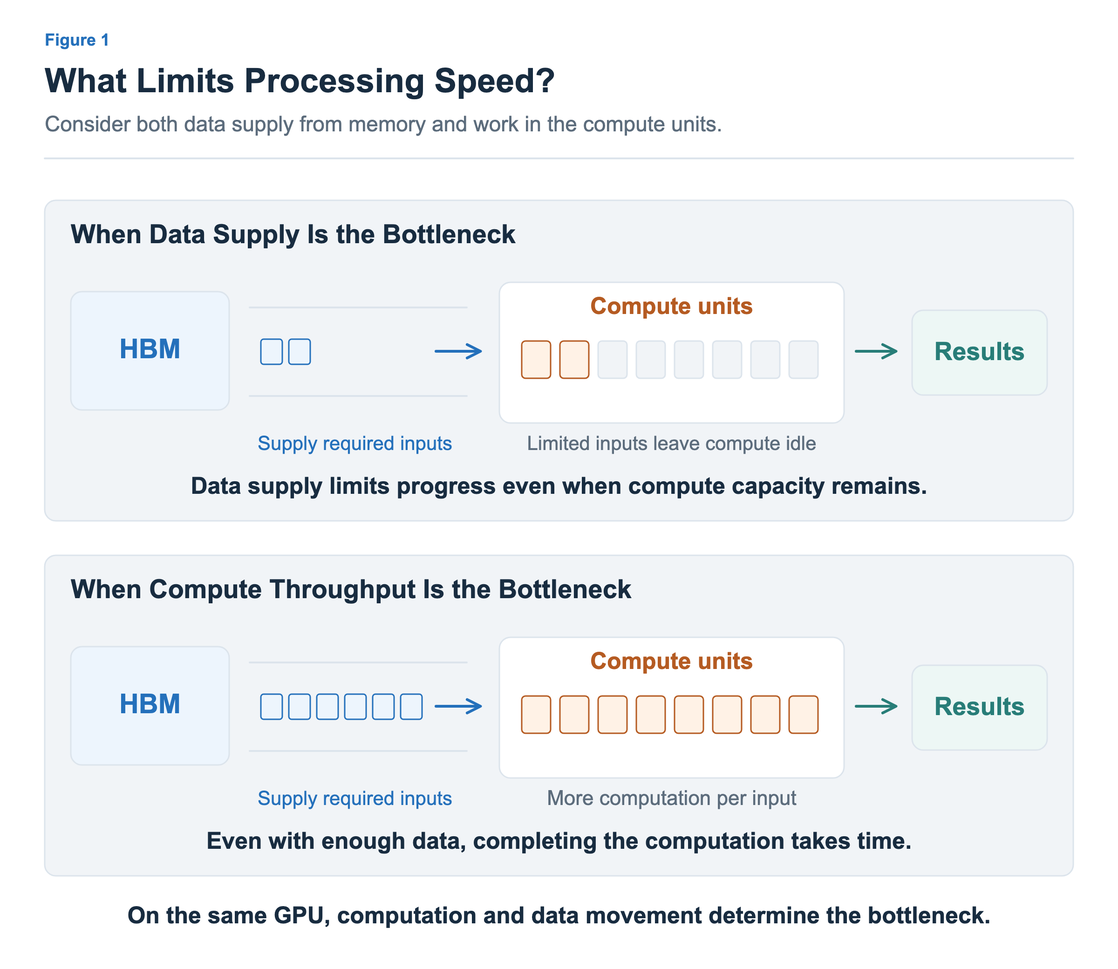
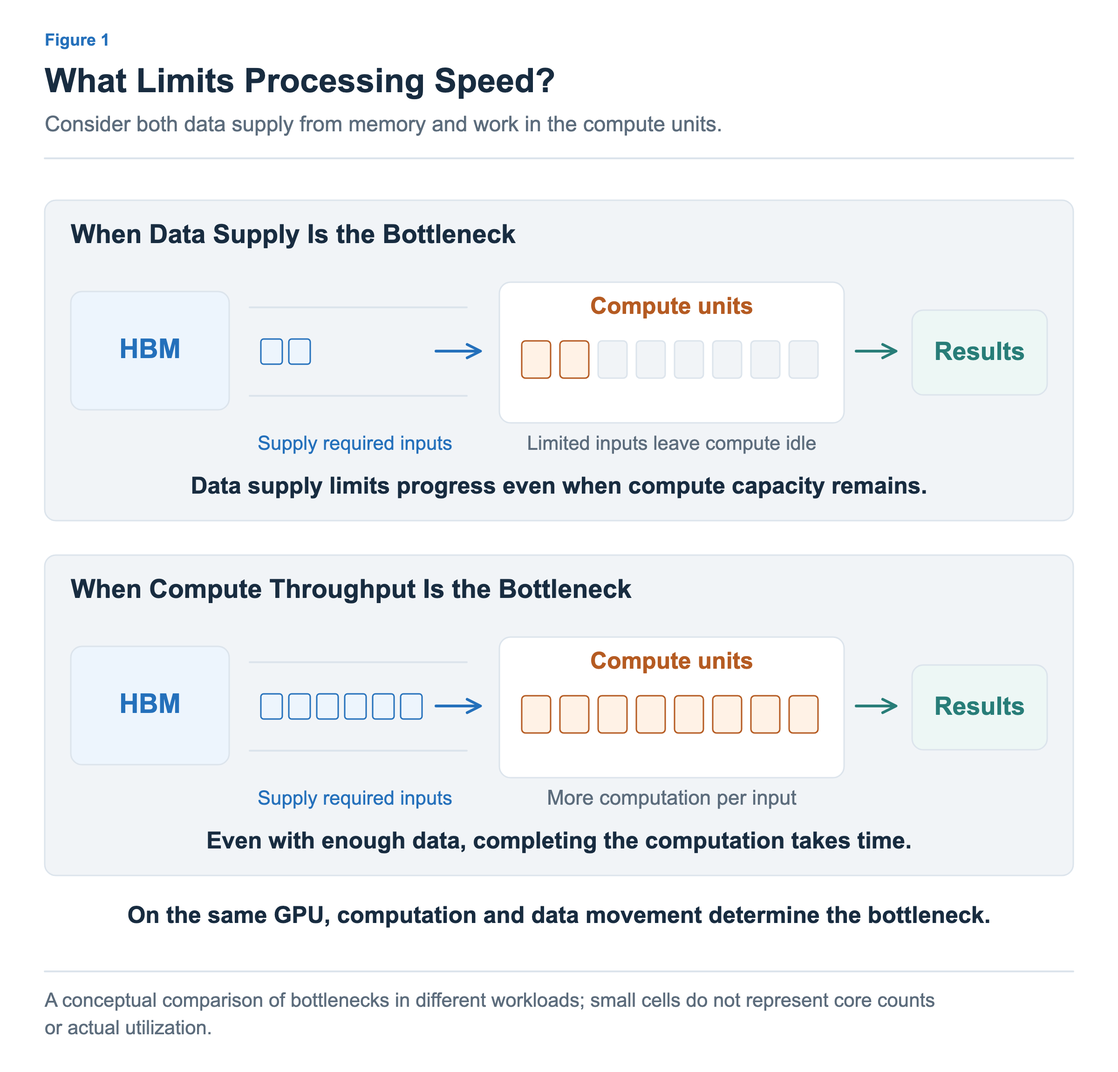
Port gpu-arithmetic-intensity-and-fusion figures to the shared visualization module
Figures are regenerated from src/data/figures/gpu-arithmetic-intensity-and-fusion with the standard frame
and in-image captions. Figures had no captions; new ko/en captions are drafted from the figures' own notes and the article text (please review).

diff --git a/src/data/figures/gpu-arithmetic-intensity-and-fusion/03-reduce-and-overlap.ts b/src/data/figures/gpu-arithmetic-intensity-and-fusion/03-reduce-and-overlap.ts
@@ -1,0 +1,67 @@
+import {C,Panel,markerUrl,type FigureSpec,type Locale} from '@llm-systems/viz';
+// Ported from the published SVG with its original geometry; replace parts with shared primitives when editing.
+export default {
+  articleId:"gpu-arithmetic-intensity-and-fusion",figureId:"03-reduce-and-overlap",number:"03-reduce-and-overlap",
+  layout:'wide',screens:['desktop'],
+  eyebrow:["그림 3","Figure 3"],
+  title:["이동을 줄이거나, 대기 중에 다른 계산을 합니다","Move Less Data or Compute While Waiting"],
+  subtitle:["데이터 이동량을 줄이는 것과 데이터 대기를 가리는 것은 다른 방법입니다.","Reducing data movement and hiding data waits are different approaches."],
+  alt:["세 경우 모두 같은 A와 B 계산을 완료한다. B는 A의 새 입력과 독립적이며 입력이 이미 준비되어 있다고 가정한다. 기준은 A입력 준비4칸 뒤 A계산2칸과 B계산2칸이다. 이동 감소는 재사용이나 중간값 이동 생략으로 A입력 준비를2칸으로 줄이고 계산은 유지한다. 동시 진행은 A입력 준비4칸 동안 B계산2칸을 먼저 진행한 뒤 A입력이 준비되면 A계산을 한다. 계산 A는 자기 입력 준비가 끝난 뒤에만 시작한다. 시간선은 상대적인 실행 순서 설명이며 실제 속도 향상 측정이 아니다. 이전 워프 스케줄링 편과 연결되는 개념도이며 구체적인 비동기 복사 API를 뜻하지 않는다.","All three cases complete the same computations A and B. B is independent of the new inputs for A and already has its inputs. The baseline prepares inputs for A for four slots, then computes A for two and B for two. Reducing movement through reuse or omitting intermediate transfers shortens preparation to two slots with unchanged computation. Concurrent progress computes B for two slots during the four-slot preparation for A, then computes A after its inputs are ready. A always starts after its own inputs are ready. The timelines illustrate relative execution order, not measured speedups. They connect to the preceding warp-scheduling article and do not specify an asynchronous-copy API."],
+  caption:["시간선은 상대적인 실행 순서이며, 실제 속도 향상을 측정한 결과가 아닙니다.","Timelines show relative execution order, not measured speedups."],
+  sources:[],
+  panels(locale:Locale){
+    const p=new Panel(locale,null,984,1104,[48,206]);
+    p.el('text',{x:48,y:218,fill:C.ink,"font-size":25,"font-weight":600,"text-anchor":"start"},["A의 입력을 준비하는 동안 실행할 수 있는 독립적인 계산 B가 있습니다.","Independent computation B can run while the inputs for A are being prepared."]);
+    p.el("rect",{x:48,y:250,width:1104,height:234,rx:12,fill:C.grayFill,stroke:C.line,"stroke-width":1.5});
+    p.el('text',{x:75,y:292,fill:C.ink,"font-size":26,"font-weight":700,"text-anchor":"start"},["기준 · 입력을 기다린 뒤 계산","Baseline · Wait for Inputs, Then Compute"]);
+    p.el('text',{x:75,y:352,fill:C.blue,"font-size":(locale==='ko'?22:21),"font-weight":600,"text-anchor":"start"},["A의 입력 준비","Prepare A’s inputs"]);
+    p.el('text',{x:75,y:414,fill:C.orange,"font-size":22,"font-weight":600,"text-anchor":"start"},["연산 장치","Compute units"]);
+    p.el("rect",{x:276,y:315,width:376,height:48,rx:12,fill:C.blueFill,stroke:C.line,"stroke-width":1.5});
+    p.el('text',{x:464,y:347,fill:C.blue,"font-size":23,"font-weight":600,"text-anchor":"middle"},["데이터 이동","Data movement"]);
+    p.el("rect",{x:276,y:380,width:376,height:48,rx:12,fill:C.paper,stroke:C.line,"stroke-width":1.5});
+    p.el('text',{x:464,y:412,fill:C.muted,"font-size":22,"font-weight":600,"text-anchor":"middle"},["대기","Waiting"]);
+    p.el("rect",{x:652,y:380,width:188,height:48,rx:12,fill:C.orangeFill,stroke:C.line,"stroke-width":1.5});
+    p.el('text',{x:746,y:412,fill:C.orange,"font-size":23,"font-weight":600,"text-anchor":"middle"},["A 계산","Compute A"]);
+    p.el("rect",{x:840,y:380,width:188,height:48,rx:12,fill:C.tealFill,stroke:C.line,"stroke-width":1.5});
+    p.el('text',{x:934,y:412,fill:C.teal,"font-size":23,"font-weight":600,"text-anchor":"middle"},["B 계산","Compute B"]);
+    p.el("path",{d:"M652,365 L652,375",fill:"none",stroke:C.blue,"stroke-width":2,"marker-end":markerUrl(C.blue)});
+    p.el("path",{d:"M1028,311 V437",fill:"none",stroke:C.muted,"stroke-width":2,"stroke-dasharray":"7 7"});
+    p.el('text',{x:1028,y:468,fill:C.muted,"font-size":21,"font-weight":600,"text-anchor":"middle"},["전체 완료","All work done"]);
+    p.el("rect",{x:48,y:510,width:1104,height:234,rx:12,fill:C.grayFill,stroke:C.line,"stroke-width":1.5});
+    p.el('text',{x:75,y:552,fill:C.ink,"font-size":26,"font-weight":700,"text-anchor":"start"},["이동 감소 · 필요한 데이터 이동 자체를 줄임","Less Movement · Reduce the Required Data Transfers"]);
+    p.el('text',{x:75,y:612,fill:C.blue,"font-size":(locale==='ko'?22:21),"font-weight":600,"text-anchor":"start"},["A의 입력 준비","Prepare A’s inputs"]);
+    p.el('text',{x:75,y:674,fill:C.orange,"font-size":22,"font-weight":600,"text-anchor":"start"},["연산 장치","Compute units"]);
+    p.el("rect",{x:276,y:575,width:188,height:48,rx:12,fill:C.blueFill,stroke:C.line,"stroke-width":1.5});
+    p.el('text',{x:370,y:607,fill:C.blue,"font-size":23,"font-weight":600,"text-anchor":"middle"},["데이터 이동","Data movement"]);
+    p.el("rect",{x:276,y:640,width:188,height:48,rx:12,fill:C.paper,stroke:C.line,"stroke-width":1.5});
+    p.el('text',{x:370,y:672,fill:C.muted,"font-size":22,"font-weight":600,"text-anchor":"middle"},["대기","Waiting"]);
+    p.el("rect",{x:464,y:640,width:188,height:48,rx:12,fill:C.orangeFill,stroke:C.line,"stroke-width":1.5});
+    p.el('text',{x:558,y:672,fill:C.orange,"font-size":23,"font-weight":600,"text-anchor":"middle"},["A 계산","Compute A"]);
+    p.el("rect",{x:652,y:640,width:188,height:48,rx:12,fill:C.tealFill,stroke:C.line,"stroke-width":1.5});
+    p.el('text',{x:746,y:672,fill:C.teal,"font-size":23,"font-weight":600,"text-anchor":"middle"},["B 계산","Compute B"]);
+    p.el("path",{d:"M464,625 L464,635",fill:"none",stroke:C.blue,"stroke-width":2,"marker-end":markerUrl(C.blue)});
+    p.el("path",{d:"M840,571 V697",fill:"none",stroke:C.muted,"stroke-width":2,"stroke-dasharray":"7 7"});
+    p.el('text',{x:840,y:728,fill:C.muted,"font-size":21,"font-weight":600,"text-anchor":"middle"},["전체 완료","All work done"]);
+    p.el("rect",{x:48,y:770,width:1104,height:234,rx:12,fill:C.grayFill,stroke:C.line,"stroke-width":1.5});
+    p.el('text',{x:75,y:812,fill:C.ink,"font-size":(locale==='ko'?26:25),"font-weight":700,"text-anchor":"start"},["동시 진행 · 데이터 이동 중 독립적인 계산을 진행","Concurrent Progress · Compute Independently During Data Movement"]);
+    p.el('text',{x:75,y:872,fill:C.blue,"font-size":(locale==='ko'?22:21),"font-weight":600,"text-anchor":"start"},["A의 입력 준비","Prepare A’s inputs"]);
+    p.el('text',{x:75,y:934,fill:C.orange,"font-size":22,"font-weight":600,"text-anchor":"start"},["연산 장치","Compute units"]);
+    p.el("rect",{x:276,y:835,width:376,height:48,rx:12,fill:C.blueFill,stroke:C.line,"stroke-width":1.5});
+    p.el('text',{x:464,y:867,fill:C.blue,"font-size":23,"font-weight":600,"text-anchor":"middle"},["데이터 이동","Data movement"]);
+    p.el("rect",{x:464,y:900,width:188,height:48,rx:12,fill:C.paper,stroke:C.line,"stroke-width":1.5});
+    p.el('text',{x:558,y:932,fill:C.muted,"font-size":22,"font-weight":600,"text-anchor":"middle"},["대기","Waiting"]);
+    p.el("rect",{x:276,y:900,width:188,height:48,rx:12,fill:C.tealFill,stroke:C.line,"stroke-width":1.5});
+    p.el('text',{x:370,y:932,fill:C.teal,"font-size":23,"font-weight":600,"text-anchor":"middle"},["B 계산","Compute B"]);
+    p.el("rect",{x:652,y:900,width:188,height:48,rx:12,fill:C.orangeFill,stroke:C.line,"stroke-width":1.5});
+    p.el('text',{x:746,y:932,fill:C.orange,"font-size":23,"font-weight":600,"text-anchor":"middle"},["A 계산","Compute A"]);
+    p.el("path",{d:"M652,885 L652,895",fill:"none",stroke:C.blue,"stroke-width":2,"marker-end":markerUrl(C.blue)});
+    p.el("path",{d:"M840,831 V957",fill:"none",stroke:C.muted,"stroke-width":2,"stroke-dasharray":"7 7"});
+    p.el('text',{x:840,y:988,fill:C.muted,"font-size":21,"font-weight":600,"text-anchor":"middle"},["전체 완료","All work done"]);
+    p.el('text',{x:1030,y:872,fill:C.blue,"font-size":21,"font-weight":400,"text-anchor":"middle"},["이동 시간은 동일","Same transfer time"]);
+    p.el("path",{d:"M278,1050 L1100,1050",fill:"none",stroke:C.muted,"stroke-width":2,"marker-end":markerUrl(C.muted)});
+    p.el('text',{x:1110,y:1083,fill:C.muted,"font-size":21,"font-weight":400,"text-anchor":"end"},["시간","Time"]);
+    p.el('text',{x:600,y:1130,fill:C.ink,"font-size":26,"font-weight":700,"text-anchor":"middle"},["세 경우 모두 A와 B의 계산량은 같습니다.","All three cases perform the same computation for A and B."]);
+    p.el('text',{x:600,y:1174,fill:C.muted,"font-size":24,"font-weight":400,"text-anchor":"middle"},["옮길 데이터를 줄이거나, 데이터가 준비되는 동안 다른 계산을 진행합니다.","Move less data, or do other computation while the data is being prepared."]);
+    return [p];
+  },
+} satisfies FigureSpec;

diff --git a/src/data/figures/gpu-arithmetic-intensity-and-fusion/02-arithmetic-intensity-roofline.ts b/src/data/figures/gpu-arithmetic-intensity-and-fusion/02-arithmetic-intensity-roofline.ts
@@ -1,0 +1,67 @@
+import {C,Panel,markerUrl,type FigureSpec,type Locale} from '@llm-systems/viz';
+// Ported from the published SVG with its original geometry; replace parts with shared primitives when editing.
+export default {
+  articleId:"gpu-arithmetic-intensity-and-fusion",figureId:"02-arithmetic-intensity-roofline",number:"02-arithmetic-intensity-roofline",
+  layout:'wide',screens:['desktop'],
+  eyebrow:["그림 2","Figure 2"],
+  title:["산술 강도는 메모리와 연산의 한계를 연결합니다","Arithmetic Intensity Connects Memory and Compute Limits"],
+  subtitle:["HBM과 주고받는 데이터에 비해 얼마나 많은 계산을 수행하는지 봅니다.","Compare the amount of computation with the data read from and written to HBM."],
+  alt:["왼쪽의 계산 A는 HBM 읽기와 쓰기 총64byte에128FLOP, 산술 강도2이고 B는64byte에512FLOP, 산술 강도8이다. 오른쪽은 설명용 대역폭8GB/s, 계산 상한32GFLOPS의 선형 축 Roofline이다. 산술 강도4에서 두 상한이 만난다. A에서 처리량 상한16GFLOPS, B에서32GFLOPS다. 회색 점은 상한 아래에 있을 수 있는 실제 성능의 개념적 위치이며 실측 결과가 아니다. 수치는 특정 GPU 사양이 아니며 같은 연산 경로와 자료형을 가정한 단순 모델이다.","On the left, computation A performs 128 FLOP for 64 total HBM bytes read and written, giving intensity 2; B performs 512 FLOP for 64 bytes, giving intensity 8. The right uses linear axes with illustrative bandwidth 8 GB/s and compute ceiling 32 GFLOPS. The ceilings meet at intensity 4 FLOP/byte. A has ceiling 16 GFLOPS and B has ceiling 32 GFLOPS. The gray point illustrates a possible performance position below the ceiling and is not a measurement. These are not specifications for a particular GPU; the model assumes the same compute path and data type."],
+  caption:["수치는 특정 GPU 사양이 아닌 설명용 값입니다. 회색 점은 실측 결과가 아닙니다.","Values are illustrative, not a specific GPU’s specifications. Gray dots are not measurements."],
+  sources:[],
+  panels(locale:Locale){
+    const p=new Panel(locale,null,720,1104,[48,206]);
+    p.el("rect",{x:48,y:213,width:420,height:565,rx:12,fill:C.grayFill,stroke:C.line,"stroke-width":1.5});
+    p.el('text',{x:74,y:255,fill:C.ink,"font-size":(locale==='ko'?27:24),"font-weight":700,"text-anchor":"start"},["1. 이동량 대비 계산량","1. Computation per Byte Moved"]);
+    p.el("rect",{x:72,y:284,width:372,height:183,rx:12,fill:C.paper,stroke:C.blue,"stroke-width":1.5});
+    p.el('text',{x:94,y:322,fill:C.blue,"font-size":25,"font-weight":700,"text-anchor":"start"},["계산 A","Computation A"]);
+    p.el('text',{x:94,y:366,fill:C.ink,"font-size":(locale==='ko'?24:23),"font-weight":400,"text-anchor":"start"},["HBM 이동 64 byte","64 bytes moved to/from HBM"]);
+    p.el('text',{x:94,y:403,fill:C.ink,"font-size":(locale==='ko'?24:21),"font-weight":400,"text-anchor":"start"},["필요한 계산 128 FLOP","128 FLOP of required computation"]);
+    p.el('text',{x:94,y:442,fill:C.blue,"font-size":25,"font-weight":700,"text-anchor":"start"},"128 ÷ 64 = 2 FLOP/byte");
+    p.el("rect",{x:72,y:493,width:372,height:183,rx:12,fill:C.paper,stroke:C.orange,"stroke-width":1.5});
+    p.el('text',{x:94,y:531,fill:C.orange,"font-size":25,"font-weight":700,"text-anchor":"start"},["계산 B","Computation B"]);
+    p.el('text',{x:94,y:575,fill:C.ink,"font-size":(locale==='ko'?24:23),"font-weight":400,"text-anchor":"start"},["HBM 이동 64 byte","64 bytes moved to/from HBM"]);
+    p.el('text',{x:94,y:612,fill:C.ink,"font-size":(locale==='ko'?24:21),"font-weight":400,"text-anchor":"start"},["필요한 계산 512 FLOP","512 FLOP of required computation"]);
+    p.el('text',{x:94,y:651,fill:C.orange,"font-size":25,"font-weight":700,"text-anchor":"start"},"512 ÷ 64 = 8 FLOP/byte");
+    p.el('text',{x:258,y:724,fill:C.ink,"font-size":(locale==='ko'?23:21),"font-weight":700,"text-anchor":"middle"},["산술 강도 = 연산량 ÷ 이동량","Intensity = Operations ÷ Bytes moved"]);
+    p.el('text',{x:258,y:758,fill:C.muted,"font-size":19,"font-weight":400,"text-anchor":"middle"},["이동량에는 읽기와 쓰기를 모두 포함","Count both reads and writes"]);
+    p.el('text',{x:506,y:255,fill:C.ink,"font-size":27,"font-weight":700,"text-anchor":"start"},["2. Roofline: 처리량의 상한","2. Roofline: Throughput Ceiling"]);
+    p.el('text',{x:582,y:294,fill:C.muted,"font-size":(locale==='ko'?21:20),"font-weight":400,"text-anchor":"start"},["연산 처리량 (GFLOPS)","Compute throughput (GFLOPS)"]);
+    p.el("path",{d:"M592,642 H1100",fill:"none",stroke:C.line,"stroke-width":2,"stroke-dasharray":"7 7"});
+    p.el('text',{x:577,y:649,fill:C.muted,"font-size":19,"font-weight":400,"text-anchor":"end"},"0");
+    p.el("path",{d:"M592,514 H1100",fill:"none",stroke:C.line,"stroke-width":2,"stroke-dasharray":"7 7"});
+    p.el('text',{x:577,y:521,fill:C.muted,"font-size":19,"font-weight":400,"text-anchor":"end"},"16");
+    p.el("path",{d:"M592,386 H1100",fill:"none",stroke:C.line,"stroke-width":2,"stroke-dasharray":"7 7"});
+    p.el('text',{x:577,y:393,fill:C.muted,"font-size":19,"font-weight":400,"text-anchor":"end"},"32");
+    p.el("path",{d:"M592,642 L592,318",fill:"none",stroke:C.muted,"stroke-width":2,"marker-end":markerUrl(C.muted)});
+    p.el("path",{d:"M592,642 L1125,642",fill:"none",stroke:C.muted,"stroke-width":2,"marker-end":markerUrl(C.muted)});
+    p.el("path",{d:"M592,642 v7",fill:"none",stroke:C.muted,"stroke-width":2});
+    p.el('text',{x:592,y:675,fill:C.muted,"font-size":20,"font-weight":400,"text-anchor":"middle"},"0");
+    p.el("path",{d:"M712,642 v7",fill:"none",stroke:C.muted,"stroke-width":2});
+    p.el('text',{x:712,y:675,fill:C.muted,"font-size":20,"font-weight":400,"text-anchor":"middle"},"2");
+    p.el("path",{d:"M832,642 v7",fill:"none",stroke:C.muted,"stroke-width":2});
+    p.el('text',{x:832,y:675,fill:C.muted,"font-size":20,"font-weight":400,"text-anchor":"middle"},"4");
+    p.el("path",{d:"M1072,642 v7",fill:"none",stroke:C.muted,"stroke-width":2});
+    p.el('text',{x:1072,y:675,fill:C.muted,"font-size":20,"font-weight":400,"text-anchor":"middle"},"8");
+    p.el("path",{d:"M592,642 L832,386",fill:"none",stroke:C.blue,"stroke-width":5});
+    p.el("path",{d:"M832,386 H1100",fill:"none",stroke:C.orange,"stroke-width":5});
+    p.el("path",{d:"M832,386 V642",fill:"none",stroke:C.line,"stroke-width":2,"stroke-dasharray":"7 7"});
+    p.el('text',{x:968,y:355,fill:C.orange,"font-size":22,"font-weight":600,"text-anchor":"middle"},["GPU 연산 처리량 상한","GPU compute ceiling"]);
+    p.el('text',{x:609,y:416,fill:C.blue,"font-size":(locale==='ko'?21:18),"font-weight":600,"text-anchor":"start"},["대역폭 × 산술 강도","Bandwidth × intensity"]);
+    p.el("path",{d:"M703,434 L739,477",fill:"none",stroke:C.blue,"stroke-width":2});
+    p.el("circle",{cx:712,cy:514,r:7,fill:C.blue,stroke:"white","stroke-width":2});
+    p.el('text',{x:728,y:539,fill:C.blue,"font-size":21,"font-weight":600,"text-anchor":"start"},["A: 상한 16","A: ceiling 16"]);
+    p.el("circle",{cx:1072,cy:386,r:7,fill:C.orange,stroke:"white","stroke-width":2});
+    p.el('text',{x:1072,y:431,fill:C.orange,"font-size":21,"font-weight":600,"text-anchor":"middle"},["B: 상한 32","B: ceiling 32"]);
+    p.el("circle",{cx:952,cy:534,r:7,fill:C.muted,stroke:"white","stroke-width":2});
+    p.el('text',{x:970,y:560,fill:C.muted,"font-size":(locale==='ko'?20:16),"font-weight":400,"text-anchor":"start"},["성능 위치 예시","Example performance point"]);
+    p.el('text',{x:928,y:595,fill:C.muted,"font-size":(locale==='ko'?18:16),"font-weight":400,"text-anchor":"middle"},["실제 성능은 상한 아래에 놓일 수 있음","Actual performance may fall below the ceiling"]);
+    p.el('text',{x:851,y:717,fill:C.ink,"font-size":23,"font-weight":600,"text-anchor":"middle"},["산술 강도 (FLOP/byte)","Arithmetic intensity (FLOP/byte)"]);
+    p.el('text',{x:704,y:761,fill:C.blue,"font-size":(locale==='ko'?20:19),"font-weight":600,"text-anchor":"middle"},["대역폭이 정하는 상한","Bandwidth-limited ceiling"]);
+    p.el('text',{x:978,y:761,fill:C.orange,"font-size":(locale==='ko'?20:19),"font-weight":600,"text-anchor":"middle"},["연산 능력이 정하는 상한","Compute-limited ceiling"]);
+    p.el("rect",{x:48,y:816,width:1104,height:102,rx:12,fill:C.blueFill,stroke:C.line,"stroke-width":1.5});
+    p.el('text',{x:600,y:857,fill:C.blue,"font-size":(locale==='ko'?27:25),"font-weight":700,"text-anchor":"middle"},["처리량 상한 = min(연산 처리량 상한, 대역폭 × 산술 강도)","Throughput ceiling = min(Compute ceiling, Bandwidth × Arithmetic intensity)"]);
+    p.el('text',{x:600,y:897,fill:C.blue,"font-size":22,"font-weight":400,"text-anchor":"middle"},["단위 시간에 데이터를 공급하는 양 × 데이터당 계산량","Data supplied per unit time × Computation per byte"]);
+    return [p];
+  },
+} satisfies FigureSpec;

diff --git a/src/data/figures/gpu-arithmetic-intensity-and-fusion/01-compute-and-memory.ts b/src/data/figures/gpu-arithmetic-intensity-and-fusion/01-compute-and-memory.ts
@@ -1,0 +1,69 @@
+import {C,Panel,markerUrl,type FigureSpec,type Locale} from '@llm-systems/viz';
+// Ported from the published SVG with its original geometry; replace parts with shared primitives when editing.
+export default {
+  articleId:"gpu-arithmetic-intensity-and-fusion",figureId:"01-compute-and-memory",number:"01-compute-and-memory",
+  layout:'wide',screens:['desktop'],
+  eyebrow:["그림 1","Figure 1"],
+  title:["무엇이 처리 속도를 제한할까요?","What Limits Processing Speed?"],
+  subtitle:["메모리의 데이터 공급과 연산 장치의 계산을 함께 봅니다.","Consider both data supply from memory and work in the compute units."],
+  alt:["같은 GPU에서 메모리 데이터 공급이 제한인 경우와 계산 처리량이 제한인 경우를 비교한다. 위쪽은 입력이 부족해 연산 장치 일부가 기다리고, 아래쪽은 입력당 계산량이 많아 계산이 한계이다. 작은 칸은 데이터와 연산 활동을 나타내며 코어 수나 실제 이용률을 나타내지 않는다. 아래쪽이 위쪽보다 같은 계산을 더 빨리 실행한다는 비교가 아니라 서로 다른 작업의 병목 비교다.","Compare data-supply and compute-throughput bottlenecks on the same GPU. Above, limited inputs leave some compute units waiting. Below, more computation per input makes compute throughput the limit. Small boxes represent data and compute activity, not core counts or measured utilization. These are different workloads with different bottlenecks, not a speed comparison of the same computation."],
+  caption:["서로 다른 작업의 병목을 비교한 개념도입니다. 작은 칸은 코어 수나 실제 이용률을 나타내지 않습니다.","A conceptual comparison of bottlenecks in different workloads; small cells do not represent core counts or actual utilization."],
+  sources:[],
+  panels(locale:Locale){
+    const p=new Panel(locale,null,801,1104,[48,206]);
+    p.el("rect",{x:48,y:215,width:1104,height:344,rx:12,fill:C.grayFill,stroke:C.line,"stroke-width":1.5});
+    p.el('text',{x:76,y:261,fill:C.ink,"font-size":28,"font-weight":700,"text-anchor":"start"},["데이터를 공급하는 속도가 병목일 때","When Data Supply Is the Bottleneck"]);
+    p.el("rect",{x:76,y:313,width:170,height:127,rx:12,fill:C.blueFill,stroke:C.line,"stroke-width":1.5});
+    p.el('text',{x:161,y:384.5,fill:C.blue,"font-size":29,"font-weight":600,"text-anchor":"middle"},"HBM");
+    p.el("path",{d:"M268,330 H501 M268,425 H501",fill:"none",stroke:C.line,"stroke-width":2});
+    p.el("rect",{x:280,y:364,width:23,height:27,rx:3,fill:C.blueFill,stroke:C.blue,"stroke-width":1.5});
+    p.el("rect",{x:310,y:364,width:23,height:27,rx:3,fill:C.blueFill,stroke:C.blue,"stroke-width":1.5});
+    p.el("path",{d:"M468,377 L514,377",fill:"none",stroke:C.blue,"stroke-width":3,"marker-end":markerUrl(C.blue)});
+    p.el("rect",{x:536,y:303,width:370,height:151,rx:12,fill:C.paper,stroke:C.line,"stroke-width":1.5});
+    p.el('text',{x:721,y:337,fill:C.orange,"font-size":25,"font-weight":700,"text-anchor":"middle"},["연산 장치","Compute units"]);
+    p.el("rect",{x:560,y:366,width:31,height:40,rx:4,fill:C.orangeFill,stroke:C.orange,"stroke-width":1.5});
+    p.el("rect",{x:601,y:366,width:31,height:40,rx:4,fill:C.orangeFill,stroke:C.orange,"stroke-width":1.5});
+    p.el("rect",{x:642,y:366,width:31,height:40,rx:4,fill:C.grayFill,stroke:C.line,"stroke-width":1.5});
+    p.el("rect",{x:683,y:366,width:31,height:40,rx:4,fill:C.grayFill,stroke:C.line,"stroke-width":1.5});
+    p.el("rect",{x:724,y:366,width:31,height:40,rx:4,fill:C.grayFill,stroke:C.line,"stroke-width":1.5});
+    p.el("rect",{x:765,y:366,width:31,height:40,rx:4,fill:C.grayFill,stroke:C.line,"stroke-width":1.5});
+    p.el("rect",{x:806,y:366,width:31,height:40,rx:4,fill:C.grayFill,stroke:C.line,"stroke-width":1.5});
+    p.el("rect",{x:847,y:366,width:31,height:40,rx:4,fill:C.grayFill,stroke:C.line,"stroke-width":1.5});
+    p.el("path",{d:"M919,377 L960,377",fill:"none",stroke:C.teal,"stroke-width":3,"marker-end":markerUrl(C.teal)});
+    p.el("rect",{x:979,y:333,width:145,height:91,rx:12,fill:C.tealFill,stroke:C.line,"stroke-width":1.5});
+    p.el('text',{x:1051.5,y:386.5,fill:C.teal,"font-size":27,"font-weight":600,"text-anchor":"middle"},["결과","Results"]);
+    p.el('text',{x:381,y:483,fill:C.blue,"font-size":21,"font-weight":400,"text-anchor":"middle"},["필요한 입력 전달","Supply required inputs"]);
+    p.el('text',{x:721,y:483,fill:C.muted,"font-size":(locale==='ko'?22:21),"font-weight":400,"text-anchor":"middle"},["입력이 부족해 계산이 뜸함","Limited inputs leave compute idle"]);
+    p.el('text',{x:600,y:530,fill:C.ink,"font-size":25,"font-weight":600,"text-anchor":"middle"},["연산 능력이 남아도, 데이터 공급이 계산의 진행을 제한합니다.","Data supply limits progress even when compute capacity remains."]);
+    p.el("rect",{x:48,y:596,width:1104,height:344,rx:12,fill:C.grayFill,stroke:C.line,"stroke-width":1.5});
+    p.el('text',{x:76,y:642,fill:C.ink,"font-size":28,"font-weight":700,"text-anchor":"start"},["계산을 처리하는 속도가 병목일 때","When Compute Throughput Is the Bottleneck"]);
+    p.el("rect",{x:76,y:694,width:170,height:127,rx:12,fill:C.blueFill,stroke:C.line,"stroke-width":1.5});
+    p.el('text',{x:161,y:765.5,fill:C.blue,"font-size":29,"font-weight":600,"text-anchor":"middle"},"HBM");
+    p.el("path",{d:"M268,711 H501 M268,806 H501",fill:"none",stroke:C.line,"stroke-width":2});
+    p.el("rect",{x:280,y:745,width:23,height:27,rx:3,fill:C.blueFill,stroke:C.blue,"stroke-width":1.5});
+    p.el("rect",{x:310,y:745,width:23,height:27,rx:3,fill:C.blueFill,stroke:C.blue,"stroke-width":1.5});
+    p.el("rect",{x:340,y:745,width:23,height:27,rx:3,fill:C.blueFill,stroke:C.blue,"stroke-width":1.5});
+    p.el("rect",{x:370,y:745,width:23,height:27,rx:3,fill:C.blueFill,stroke:C.blue,"stroke-width":1.5});
+    p.el("rect",{x:400,y:745,width:23,height:27,rx:3,fill:C.blueFill,stroke:C.blue,"stroke-width":1.5});
+    p.el("rect",{x:430,y:745,width:23,height:27,rx:3,fill:C.blueFill,stroke:C.blue,"stroke-width":1.5});
+    p.el("path",{d:"M468,758 L514,758",fill:"none",stroke:C.blue,"stroke-width":3,"marker-end":markerUrl(C.blue)});
+    p.el("rect",{x:536,y:684,width:370,height:151,rx:12,fill:C.paper,stroke:C.line,"stroke-width":1.5});
+    p.el('text',{x:721,y:718,fill:C.orange,"font-size":25,"font-weight":700,"text-anchor":"middle"},["연산 장치","Compute units"]);
+    p.el("rect",{x:560,y:747,width:31,height:40,rx:4,fill:C.orangeFill,stroke:C.orange,"stroke-width":1.5});
+    p.el("rect",{x:601,y:747,width:31,height:40,rx:4,fill:C.orangeFill,stroke:C.orange,"stroke-width":1.5});
+    p.el("rect",{x:642,y:747,width:31,height:40,rx:4,fill:C.orangeFill,stroke:C.orange,"stroke-width":1.5});
+    p.el("rect",{x:683,y:747,width:31,height:40,rx:4,fill:C.orangeFill,stroke:C.orange,"stroke-width":1.5});
+    p.el("rect",{x:724,y:747,width:31,height:40,rx:4,fill:C.orangeFill,stroke:C.orange,"stroke-width":1.5});
+    p.el("rect",{x:765,y:747,width:31,height:40,rx:4,fill:C.orangeFill,stroke:C.orange,"stroke-width":1.5});
+    p.el("rect",{x:806,y:747,width:31,height:40,rx:4,fill:C.orangeFill,stroke:C.orange,"stroke-width":1.5});
+    p.el("rect",{x:847,y:747,width:31,height:40,rx:4,fill:C.orangeFill,stroke:C.orange,"stroke-width":1.5});
+    p.el("path",{d:"M919,758 L960,758",fill:"none",stroke:C.teal,"stroke-width":3,"marker-end":markerUrl(C.teal)});
+    p.el("rect",{x:979,y:714,width:145,height:91,rx:12,fill:C.tealFill,stroke:C.line,"stroke-width":1.5});
+    p.el('text',{x:1051.5,y:767.5,fill:C.teal,"font-size":27,"font-weight":600,"text-anchor":"middle"},["결과","Results"]);
+    p.el('text',{x:381,y:864,fill:C.blue,"font-size":21,"font-weight":400,"text-anchor":"middle"},["필요한 입력 전달","Supply required inputs"]);
+    p.el('text',{x:721,y:864,fill:C.muted,"font-size":22,"font-weight":400,"text-anchor":"middle"},["입력당 필요한 계산이 많음","More computation per input"]);
+    p.el('text',{x:600,y:911,fill:C.ink,"font-size":25,"font-weight":600,"text-anchor":"middle"},["데이터 공급이 충분해도, 계산을 끝내는 데 시간이 걸립니다.","Even with enough data, completing the computation takes time."]);
+    p.el('text',{x:600,y:991,fill:C.ink,"font-size":25,"font-weight":700,"text-anchor":"middle"},["같은 GPU에서도 계산량과 데이터 이동량에 따라 병목이 달라집니다.","On the same GPU, computation and data movement determine the bottleneck."]);
+    return [p];
+  },
+} satisfies FigureSpec;

diff --git a/src/data/figures/gpu-arithmetic-intensity-and-fusion/04-elementwise-fusion.ts b/src/data/figures/gpu-arithmetic-intensity-and-fusion/04-elementwise-fusion.ts
@@ -1,0 +1,56 @@
+import {C,Panel,markerUrl,type FigureSpec,type Locale} from '@llm-systems/viz';
+// Ported from the published SVG with its original geometry; replace parts with shared primitives when editing.
+export default {
+  articleId:"gpu-arithmetic-intensity-and-fusion",figureId:"04-elementwise-fusion",number:"04-elementwise-fusion",
+  layout:'wide',screens:['desktop'],
+  eyebrow:["그림 4","Figure 4"],
+  title:["Fusion은 중간값의 저장과 재읽기를 줄입니다","Fusion Reduces Intermediate Stores and Rereads"],
+  subtitle:["한번 읽어온 값으로 연속된 계산을 수행하고 최종 결과를 저장합니다.","Read values once, perform consecutive operations, and store the final results."],
+  alt:["동일한 입력에 대해 u=x+bias, y=ReLU(u)를 두 커널과 한 커널로 수행한다. 분리 실행은 커널 1에서 u를 계산해 전역 메모리의 중간 텐서에 저장한다. 커널 1이 끝난 뒤 커널 2가 이 텐서에서 u를 읽어 ReLU를 적용한다. 전역 메모리 접근에는 캐시가 관여하므로 모든 읽기와 쓰기가 HBM까지 이어지는 것은 아니다. Fusion은 커널 내부에서 중간값을 이어 사용해 최종결과만 저장한다. ReLU는 max(0,u)다. 중간 텐서u의 출력N개에 대해 논리적 쓰기N개와읽기N개,FP32이면8Nbyte 접근을 줄인다. 입력과 최종출력의 접근은 공통이다. 실제HBM바이트나속도향상은캐시,레지스터스필등구현의영향을받는다.","Compute u=x+bias and y=ReLU(u) from identical inputs using two kernels or one. Separate execution computes u in kernel 1 and stores it in an intermediate tensor in global memory. After kernel 1 finishes, kernel 2 reads u and applies ReLU. Caches participate in global-memory accesses, so not every read and write reaches HBM. Fusion uses intermediate values within the kernel and stores only final results. ReLU is max(0,u). For N intermediate values, it removes N logical writes and N reads, or 8N bytes for FP32. Input and final-output accesses are common to both cases. Actual HBM bytes and speedups depend on implementation details such as caches and register spills."],
+  caption:["줄어드는 접근은 논리적 기준입니다. 실제 HBM 바이트와 속도 향상은 캐시 등 구현에 따라 달라집니다.","Saved accesses are counted logically; actual HBM bytes and speedups depend on caches and the implementation."],
+  sources:[],
+  panels(locale:Locale){
+    const p=new Panel(locale,null,957,1104,[48,206]);
+    p.el("rect",{x:180,y:211,width:840,height:72,rx:12,fill:C.grayFill,stroke:C.line,"stroke-width":1.5});
+    p.el('text',{x:600,y:255,fill:C.ink,"font-size":30,"font-weight":600,"text-anchor":"middle"},"u = x + bias    →    y = ReLU(u)");
+    p.el("rect",{x:48,y:319,width:536,height:770,rx:12,fill:C.grayFill,stroke:C.line,"stroke-width":1.5});
+    p.el('text',{x:316,y:365,fill:C.ink,"font-size":(locale==='ko'?28:27),"font-weight":700,"text-anchor":"middle"},["분리 실행 · 커널 두 개","Separate Execution · Two Kernels"]);
+    p.el("rect",{x:76,y:397,width:480,height:66,rx:12,fill:C.blueFill,stroke:C.line,"stroke-width":1.5});
+    p.el('text',{x:316,y:438,fill:C.blue,"font-size":25,"font-weight":600,"text-anchor":"middle"},["입력 x와 bias 읽기","Read inputs x and bias"]);
+    p.el("path",{d:"M316,474 L316,504",fill:"none",stroke:C.blue,"stroke-width":2,"marker-end":markerUrl(C.blue)});
+    p.el("rect",{x:76,y:516,width:480,height:115,rx:12,fill:C.orangeFill,stroke:C.orange,"stroke-width":1.5});
+    p.el('text',{x:316,y:551,fill:C.orange,"font-size":20,"font-weight":600,"text-anchor":"middle"},["커널 1","Kernel 1"]);
+    p.el('text',{x:316,y:598,fill:C.orange,"font-size":30,"font-weight":700,"text-anchor":"middle"},"u = x + bias");
+    p.el("path",{d:"M316,643 L316,673",fill:"none",stroke:C.blue,"stroke-width":2,"marker-end":markerUrl(C.blue)});
+    p.el("rect",{x:76,y:687,width:480,height:135,rx:12,fill:C.blueFill,stroke:C.blue,"stroke-width":1.5});
+    p.el('text',{x:316,y:719,fill:C.blue,"font-size":25,"font-weight":700,"text-anchor":"middle"},["중간 텐서 u","Intermediate tensor u"]);
+    p.el('text',{x:316,y:750,fill:C.blue,"font-size":24,"font-weight":600,"text-anchor":"middle"},["전역 메모리에 저장","Store in global memory"]);
+    p.el('text',{x:316,y:781,fill:C.blue,"font-size":24,"font-weight":600,"text-anchor":"middle"},["→ 다음 커널에서 읽기","→ Read in the next kernel"]);
+    p.el('text',{x:316,y:810,fill:C.muted,"font-size":19,"font-weight":400,"text-anchor":"middle"},["출력 N개: 쓰기 N개 + 읽기 N개","N outputs: N writes + N reads"]);
+    p.el("path",{d:"M316,833 L316,861",fill:"none",stroke:C.blue,"stroke-width":2,"marker-end":markerUrl(C.blue)});
+    p.el("rect",{x:76,y:873,width:480,height:112,rx:12,fill:C.orangeFill,stroke:C.orange,"stroke-width":1.5});
+    p.el('text',{x:316,y:908,fill:C.orange,"font-size":20,"font-weight":600,"text-anchor":"middle"},["커널 2","Kernel 2"]);
+    p.el('text',{x:316,y:953,fill:C.orange,"font-size":30,"font-weight":700,"text-anchor":"middle"},"y = ReLU(u)");
+    p.el("path",{d:"M316,993 L316,1012",fill:"none",stroke:C.teal,"stroke-width":2,"marker-end":markerUrl(C.teal)});
+    p.el("rect",{x:76,y:1025,width:480,height:43,rx:12,fill:C.tealFill,stroke:C.line,"stroke-width":1.5});
+    p.el('text',{x:316,y:1054.5,fill:C.teal,"font-size":23,"font-weight":600,"text-anchor":"middle"},["최종 결과 y 저장","Store final result y"]);
+    p.el("rect",{x:616,y:319,width:536,height:770,rx:12,fill:C.grayFill,stroke:C.line,"stroke-width":1.5});
+    p.el('text',{x:884,y:365,fill:C.ink,"font-size":28,"font-weight":700,"text-anchor":"middle"},["Fusion · 커널 하나","Fusion · One Kernel"]);
+    p.el("rect",{x:644,y:397,width:480,height:66,rx:12,fill:C.blueFill,stroke:C.line,"stroke-width":1.5});
+    p.el('text',{x:884,y:438,fill:C.blue,"font-size":25,"font-weight":600,"text-anchor":"middle"},["입력 x와 bias 읽기","Read inputs x and bias"]);
+    p.el("path",{d:"M884,474 L884,504",fill:"none",stroke:C.blue,"stroke-width":2,"marker-end":markerUrl(C.blue)});
+    p.el("rect",{x:644,y:516,width:480,height:469,rx:12,fill:C.orangeFill,stroke:C.orange,"stroke-width":1.5});
+    p.el('text',{x:884,y:554,fill:C.orange,"font-size":(locale==='ko'?23:22),"font-weight":700,"text-anchor":"middle"},["커널 안에서 계산을 이어감","Continue computing within the kernel"]);
+    p.el('text',{x:884,y:621,fill:C.orange,"font-size":32,"font-weight":700,"text-anchor":"middle"},"u = x + bias");
+    p.el("path",{d:"M884,649 L884,694",fill:"none",stroke:C.orange,"stroke-width":3,"marker-end":markerUrl(C.orange)});
+    p.el('text',{x:884,y:735,fill:C.orange,"font-size":27,"font-weight":600,"text-anchor":"middle"},["중간값 u를 바로 사용","Use intermediate u directly"]);
+    p.el('text',{x:884,y:778,fill:C.muted,"font-size":(locale==='ko'?23:22),"font-weight":400,"text-anchor":"middle"},["중간 텐서의 저장·재읽기 없음","No intermediate tensor stores or rereads"]);
+    p.el("path",{d:"M884,816 L884,872",fill:"none",stroke:C.orange,"stroke-width":3,"marker-end":markerUrl(C.orange)});
+    p.el('text',{x:884,y:947,fill:C.orange,"font-size":32,"font-weight":700,"text-anchor":"middle"},"y = ReLU(u)");
+    p.el("path",{d:"M884,993 L884,1012",fill:"none",stroke:C.teal,"stroke-width":2,"marker-end":markerUrl(C.teal)});
+    p.el("rect",{x:644,y:1025,width:480,height:43,rx:12,fill:C.tealFill,stroke:C.line,"stroke-width":1.5});
+    p.el('text',{x:884,y:1054.5,fill:C.teal,"font-size":23,"font-weight":600,"text-anchor":"middle"},["최종 결과 y 저장","Store final result y"]);
+    p.el('text',{x:600,y:1147,fill:C.ink,"font-size":(locale==='ko'?26:25),"font-weight":700,"text-anchor":"middle"},["계산과 결과는 같고, 중간값을 쓰고 다시 읽는 과정이 사라집니다.","Same computation and results, without writing and rereading intermediate values."]);
+    return [p];
+  },
+} satisfies FigureSpec;
